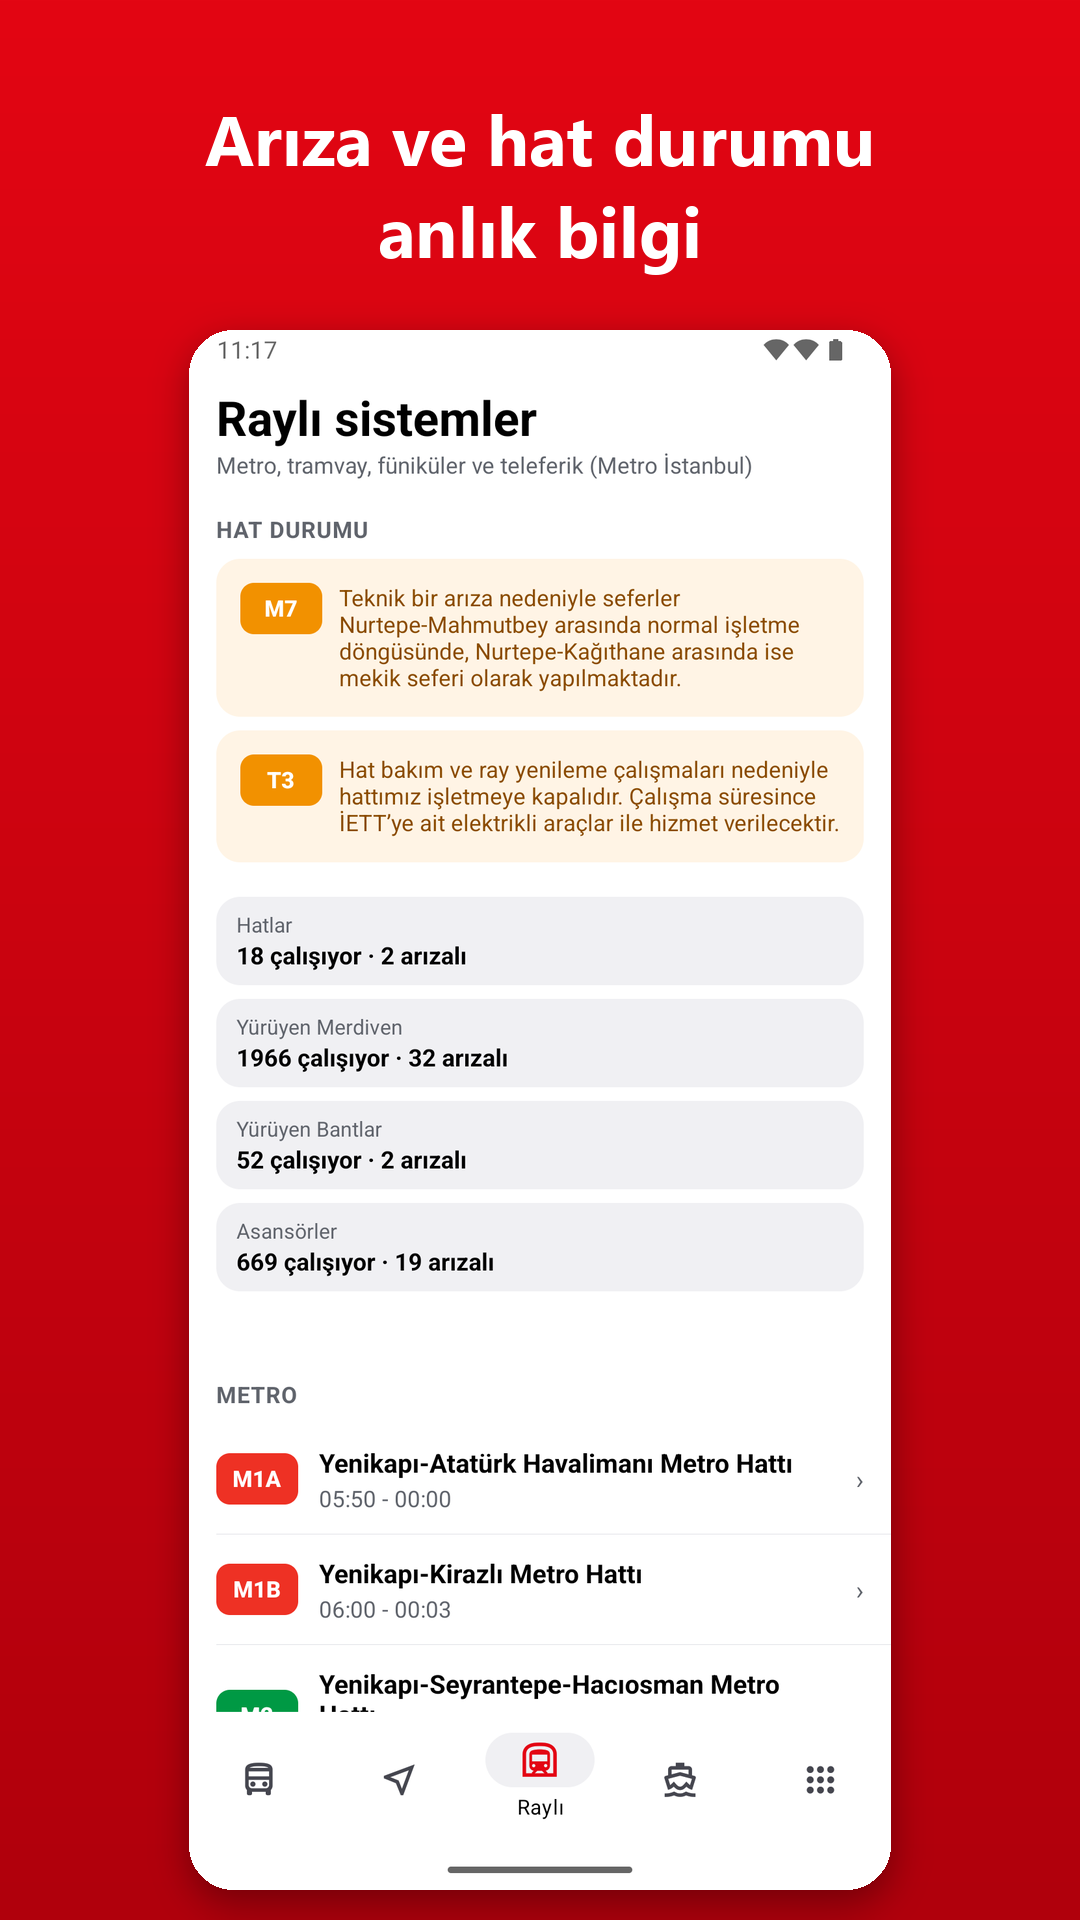
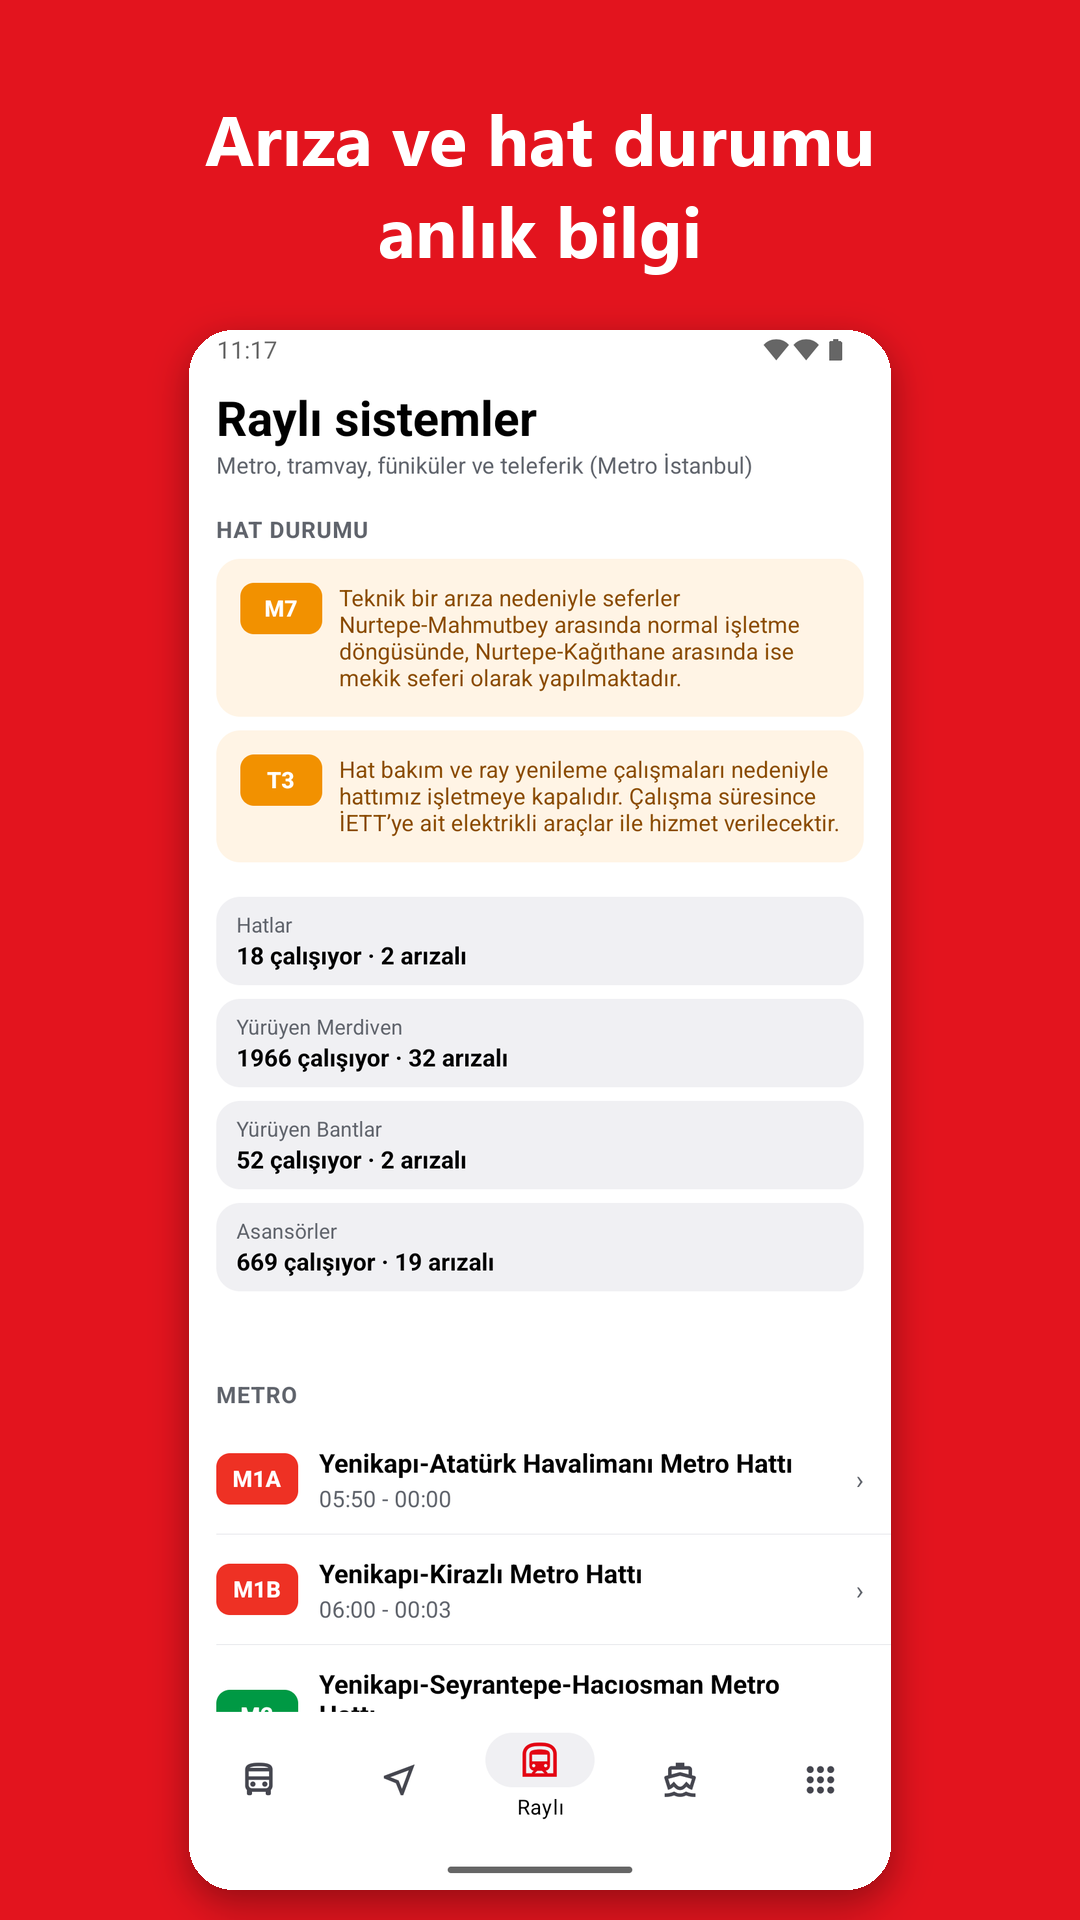
Puanlama penceresi prod'a (#25)
* CI ilk ayar düzeltmeleri (#3)

AI incelemesi anahtarsız ve bot PR'larında atlanır, Dependabot büyük sürümleri önermez, CLA bakımcı hesabı muaf.

* Katkıcılar listesi düzeltmesi (#4)

Listede olan katkıcının türleri korunur.

* Otomatik PR incelemesi workflow'u kaldırıldı (#11)

PR incelemesi bakımcılar tarafından yerelde yapılır.

* Katkıcılara @codebycinar eklendi (#12)

* Bakımcı rehberi: katkıcılar botu PR'ları (#13)

* Android mağaza hazırlığı (#14)

Simge, açılış ekranı, Play Store metinleri ve görselleri, gizlilik politikası, EAS bağlantısı, Android yayın ayarı.

* Android: reklam kimliği izni engellendi (#15)

* Gizlilik politikası ve kullanım koşulları bağlantıları eklendi (#17)

* Yeni simge ve göz yormayan renk paleti (#20)

Simge otobüs, tramvay ve vapuru konum işaretinin içinde bir araya getiriyor.
Koyu modda saf siyah yerine lacivert zemin ve kırık beyaz metin kullanılıyor.
Uyarı, vurgu ve bağlantı renkleri temaya bağlandı; koyu modda göz almıyor.

* Ekran görüntüsü çerçeveleri yeni simge rengiyle üretildi (#23)

* Mağaza puanlama penceresi ve mağaza metni güncellendi (#24)

---------

Changed region(s): [[0.0, 0.4688, 1.0, 1.0]]

diff --git a/src/lib/rating.ts b/src/lib/rating.ts
@@ -1,0 +1,51 @@
+// Mağaza puanlama penceresi. Uygulamayı birkaç farklı gün kullanan kişiye, ilk
+// açılıştan en az birkaç gün sonra bir kez sorulur; sonra uzun süre sorulmaz.
+// Pencerenin gerçekten gösterilip gösterilmeyeceğine Google Play / App Store karar verir.
+import AsyncStorage from '@react-native-async-storage/async-storage';
+import * as StoreReview from 'expo-store-review';
+import { Linking, Platform } from 'react-native';
+
+const KEY = 'acik-durak:rating';
+const MIN_DAYS_USED = 3;
+const MIN_AGE_MS = 4 * 86400000;
+const ASK_AGAIN_MS = 120 * 86400000;
+
+type RatingState = { firstOpen: number; days: string[]; askedAt?: number };
+
+const today = () => new Date().toISOString().slice(0, 10);
+
+/** Uygulama açılışında çağrılır. Koşullar uygunsa birkaç saniye sonra puanlama penceresini ister. */
+export async function trackOpenAndMaybeAsk() {
+  try {
+    const raw = await AsyncStorage.getItem(KEY);
+    const s: RatingState = raw ? JSON.parse(raw) : { firstOpen: Date.now(), days: [] };
+    const d = today();
+    if (!s.days.includes(d)) s.days = [...s.days, d].slice(-10);
+
+    const now = Date.now();
+    const due =
+      s.days.length >= MIN_DAYS_USED &&
+      now - s.firstOpen >= MIN_AGE_MS &&
+      (!s.askedAt || now - s.askedAt >= ASK_AGAIN_MS);
+
+    if (due && (await StoreReview.isAvailableAsync())) {
+      s.askedAt = now;
+      await AsyncStorage.setItem(KEY, JSON.stringify(s));
+      // Kullanıcı ekrana baktıktan sonra sorulsun
+      setTimeout(() => StoreReview.requestReview().catch(() => {}), 8000);
+      return;
+    }
+    await AsyncStorage.setItem(KEY, JSON.stringify(s));
+  } catch {
+    // Puanlama isteğe bağlı, hata uygulamayı etkilememeli
+  }
+}
+
+const PLAY_URL = 'https://play.google.com/store/apps/details?id=com.modernyazilim.acikdurak';
+
+/** Profil ekranındaki "Uygulamayı puanla" bağlantısı: doğrudan mağaza sayfasını açar. */
+export function openStorePage() {
+  const url = StoreReview.storeUrl() ?? (Platform.OS === 'android' ? `market://details?id=com.modernyazilim.acikdurak` : null);
+  if (url) Linking.openURL(url).catch(() => Linking.openURL(PLAY_URL));
+  else Linking.openURL(PLAY_URL);
+}

diff --git a/src/app/profile.tsx b/src/app/profile.tsx
@@ -6,6 +6,7 @@ import { Alert, Pressable, ScrollView, Share, StyleSheet, TextInput, View } from
 import { PlaceButton } from '@/components/place-button';
 import { Avatar, Brand, ChoiceRow, Row, SectionTitle, Separator, T, ToggleRow } from '@/components/ui';
 import { useTheme } from '@/hooks/use-theme';
+import { openStorePage } from '@/lib/rating';
 import { actions, exportBackup, PROFILE_COLORS, useStore } from '@/lib/store';
 
 export default function ProfileScreen() {
@@ -152,6 +153,9 @@ export default function ProfileScreen() {
       <Row onPress={backup} title={<T color={c.link}>Yedeği kopyala / paylaş</T>} />
       <Separator />
       <Row onPress={() => router.push('/restore')} title={<T color={c.link}>Yedekten geri yükle</T>} />
+
+      <SectionTitle>Açık Durak</SectionTitle>
+      <Row onPress={openStorePage} title={<T color={c.link}>Uygulamayı puanla</T>} subtitle="Beğendiysen mağazada puan vermen daha çok kişiye ulaşmamıza yardım eder" />
 
       <SectionTitle>Hesap</SectionTitle>
       <Row onPress={reset} title={<T color={Brand.red}>Tüm verileri sil ve çıkış yap</T>} />

diff --git a/src/app/_layout.tsx b/src/app/_layout.tsx
@@ -8,6 +8,7 @@ import { Brand } from '@/components/ui';
 import { Colors } from '@/constants/theme';
 import '@/lib/reminders';
 import { openItem } from '@/lib/nav';
+import { trackOpenAndMaybeAsk } from '@/lib/rating';
 import { actions, FavKey, useStore } from '@/lib/store';
 
 SplashScreen.preventAutoHideAsync();
@@ -27,7 +28,9 @@ export default function RootLayout() {
   const { ready } = useStore();
 
   useEffect(() => {
-    if (ready) SplashScreen.hideAsync();
+    if (!ready) return;
+    SplashScreen.hideAsync();
+    trackOpenAndMaybeAsk();
   }, [ready]);
 
   // Hatırlatıcı bildirimine dokununca ilgili sayfayı aç

diff --git a/scripts/make-icons.py b/scripts/make-icons.py
@@ -146,6 +146,11 @@ def mark(size, scale=1.0, c=COLOR):
     return art.resize((size, size), Image.LANCZOS)
 
 
+def background(size, w=None, h=None):
+    """Düz kırmızı zemin. Ekran görüntüsü çerçeveleri de bunu kullanır."""
+    return Image.new('RGBA', (w or size, h or size), RED)
+
+
 def icon(size, scale=1.0, bg=RED):
     im = Image.new('RGBA', (size, size), bg)
     im.alpha_composite(mark(size, scale))
@@ -174,7 +179,7 @@ def main():
     mark(512).save(IMG / 'splash-icon.png')
 
     # Play Store öne çıkan görsel (1024x500)
-    fg = Image.new('RGBA', (1024, 500), RED)
+    fg = background(0, 1024, 500)
     fg.alpha_composite(mark(440), (20, 30))
     d = ImageDraw.Draw(fg)
     d.text((470, 150), 'Açık Durak', font=font(84), fill=WHITE)

diff --git a/CHANGELOG.md b/CHANGELOG.md
@@ -14,3 +14,4 @@ Bu dosyada her sürümdeki önemli değişiklikler yer alır.
 - Tema, yenileme sıklığı ve erişilebilirlik ayarları
 - Otobüs, tramvay ve vapuru bir arada gösteren yeni uygulama simgesi
 - Simgeyle uyumlu, koyu modda lacivert zeminli ve göz yormayan renk paleti
+- Birkaç gün kullanımdan sonra mağaza puanlama penceresi, profilde "Uygulamayı puanla" bağlantısı
